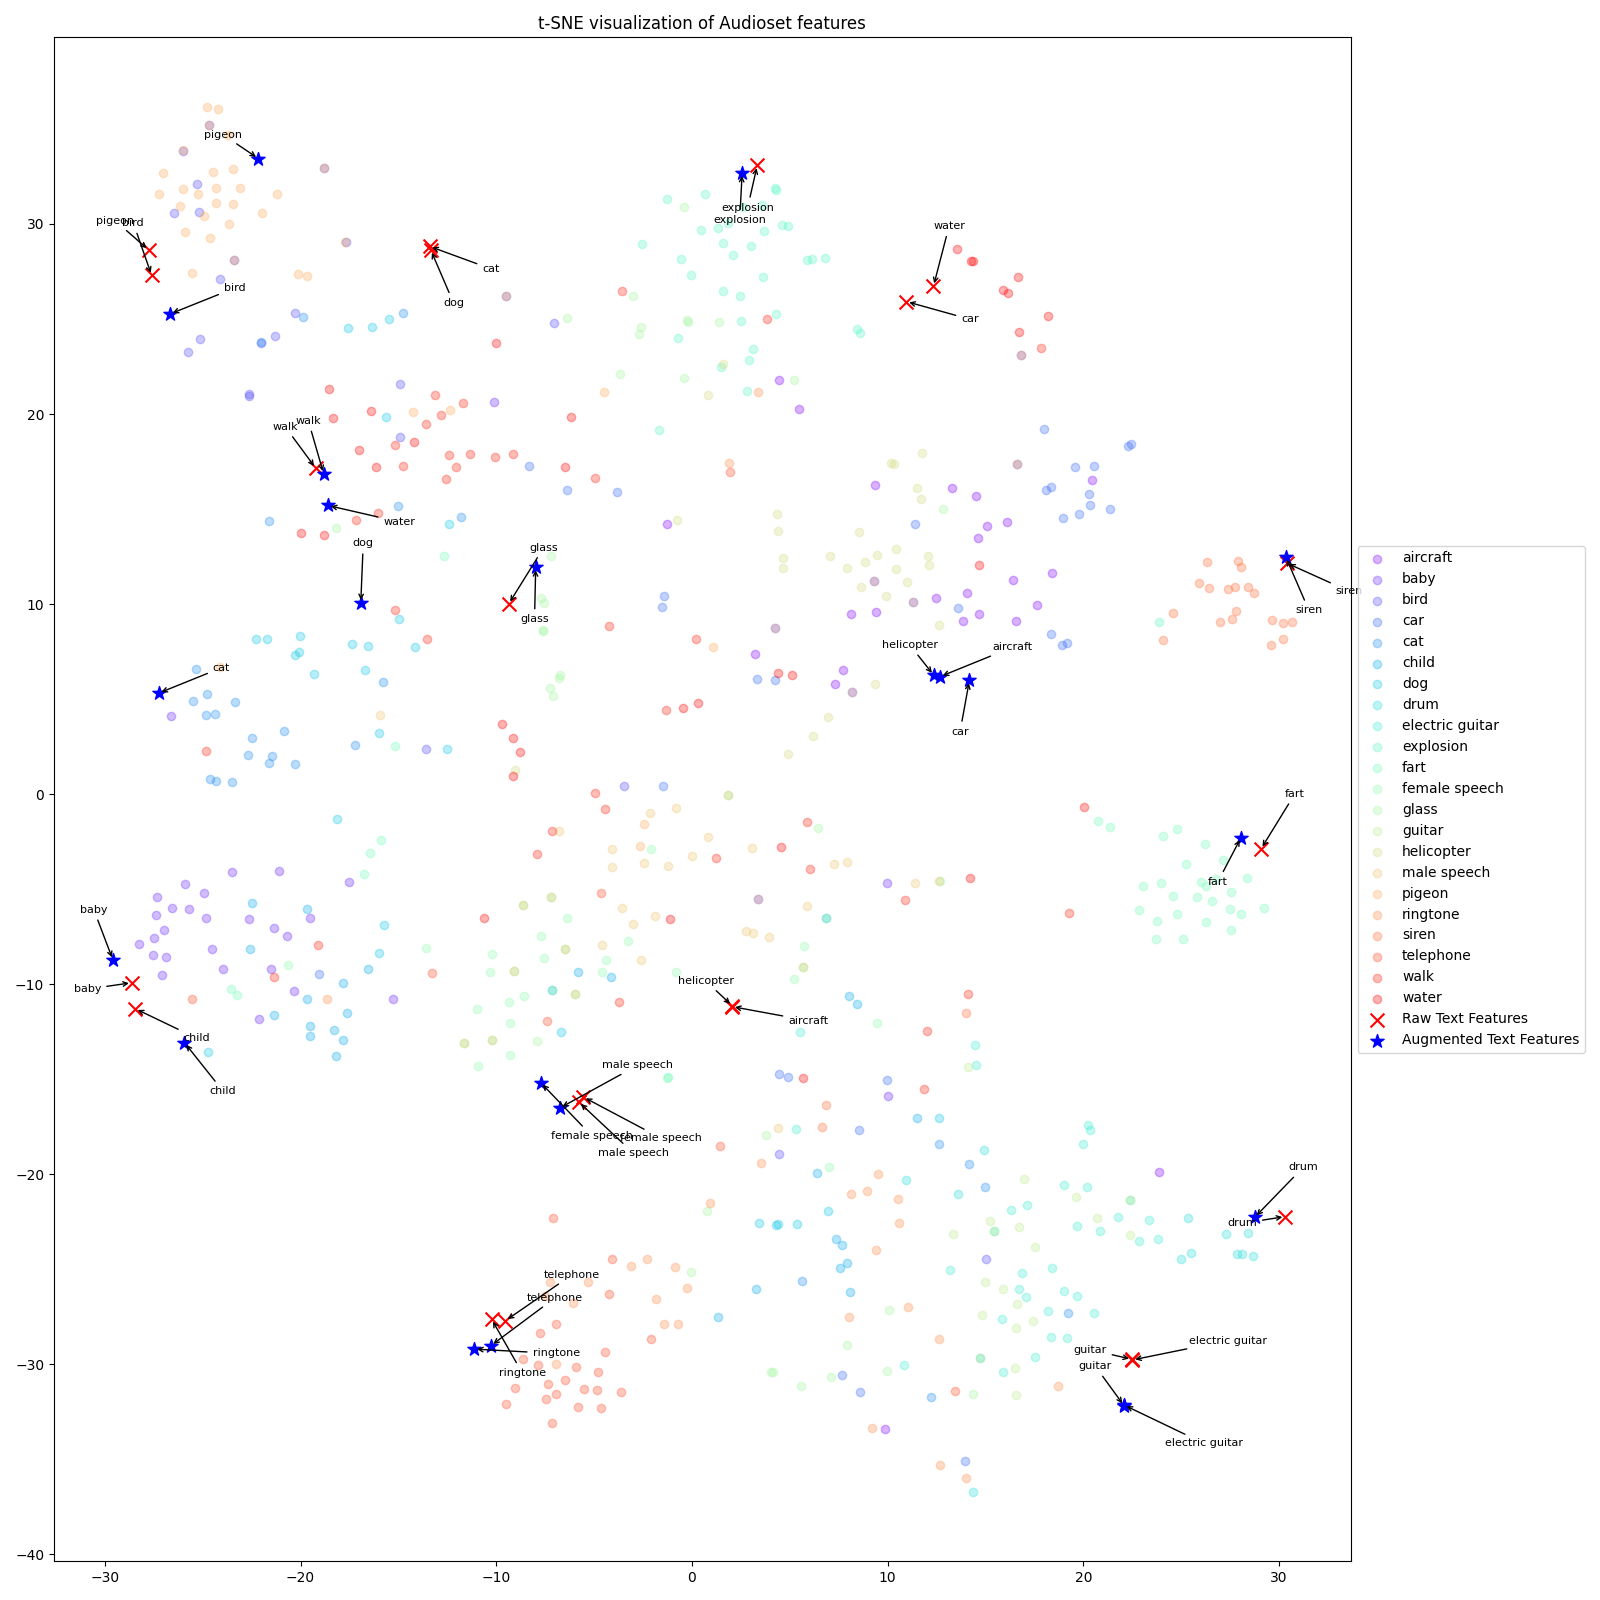
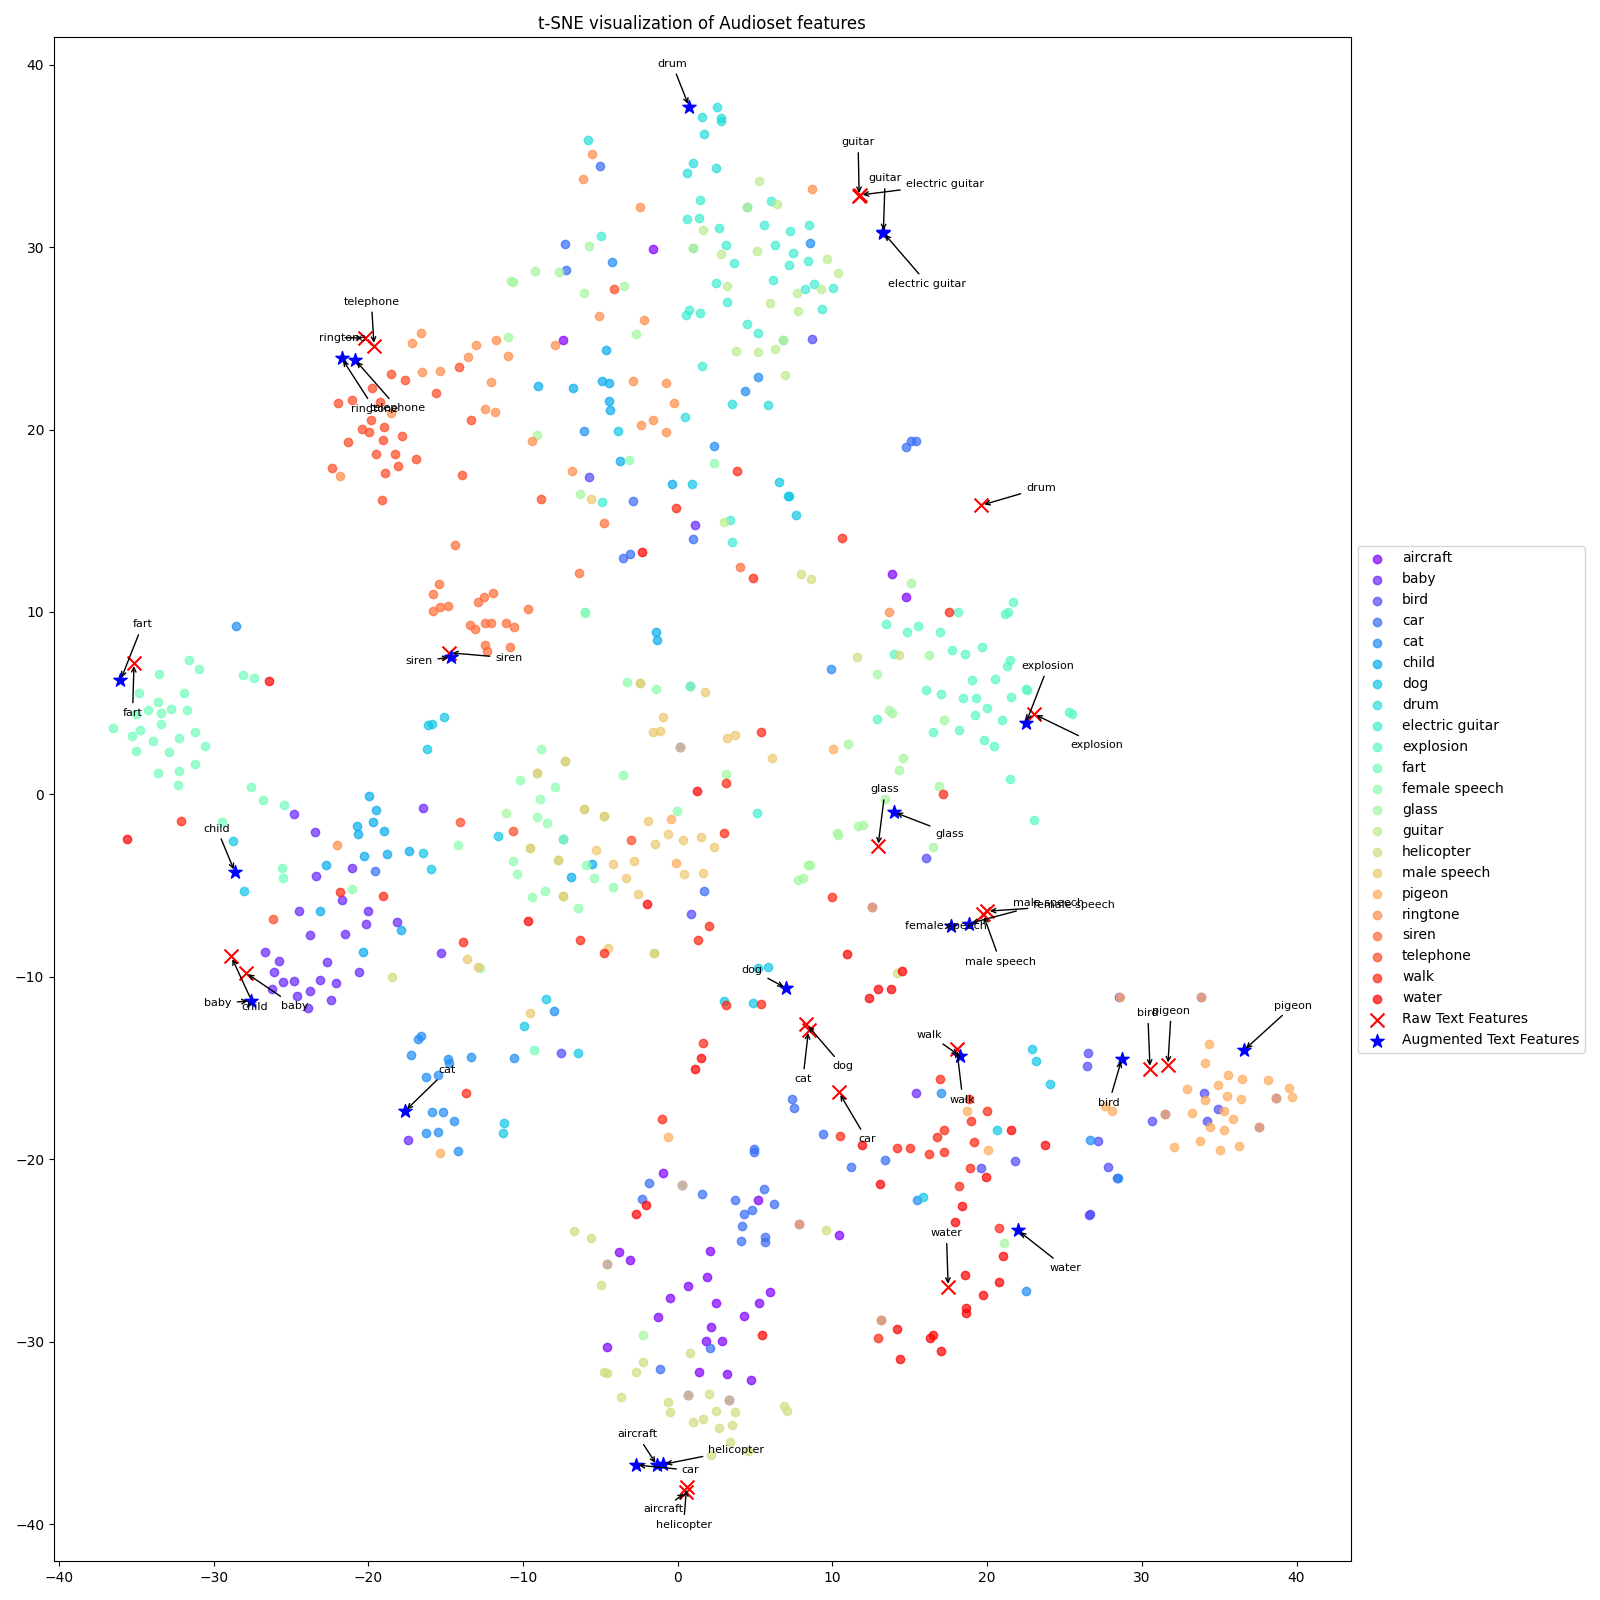
improve viz Audioset

diff --git a/features_viz.py b/features_viz.py
@@ -14,7 +14,7 @@ import matplotlib.cm as cm
 
 parser = argparse.ArgumentParser()
 
-help = "Dataset type, one of ESC-50, FMA, UrbanSound8K (short names: e, f, u)"
+help = "Dataset type, one of ESC-50, FMA, UrbanSound8K, AudioSet (short names: e, f, u, a)"
 parser.add_argument("--dataset", "-d", type=str, required=True, help=help)
 
 args = parser.parse_args()
@@ -76,7 +76,7 @@ colors = cm.rainbow(np.linspace(0, 1, len(classes)))
 for i, txt in enumerate(classes):
     plt.scatter(audio_features_tsne[:, 0][audio_labels == i], 
                 audio_features_tsne[:, 1][audio_labels == i],
-                marker="o", color=colors[i], label=txt, alpha=0.3,) 
+                marker="o", color=colors[i], label=txt, alpha=0.7,) 
 
 plt.scatter(raw_text_features_tsne[:, 0], raw_text_features_tsne[:, 1],
             marker="x", c="r", s=100, label="Raw Text Features",)
